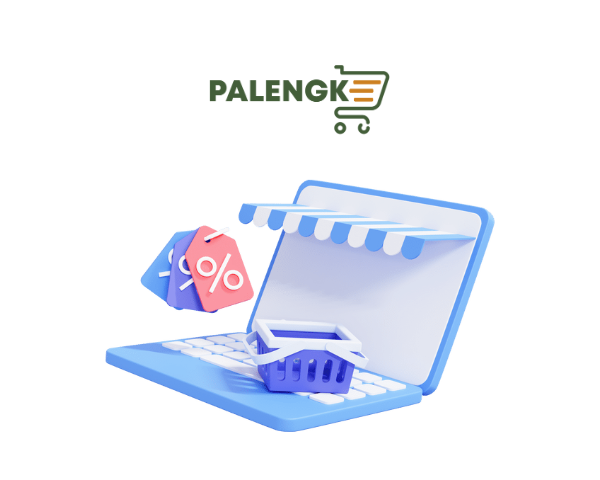
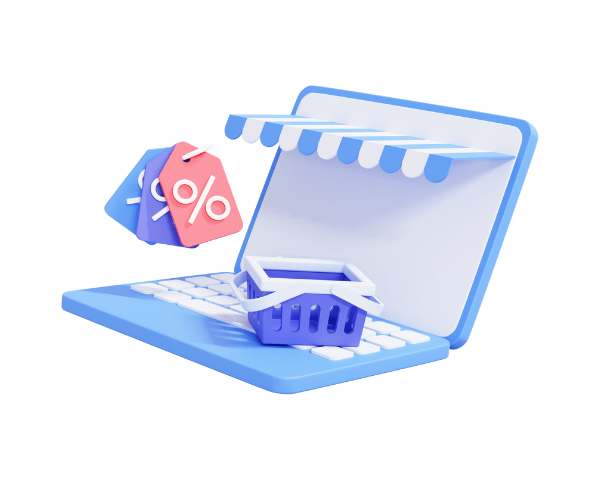
update imgs

diff --git a/src/index.css b/src/index.css
@@ -1994,7 +1994,7 @@
                     align-items: center;
                     width: 100%;
                     padding: 0 10px 0 0;
-                    border-radius: 10px;
+                    border-radius: 20px;
                     border: 1px solid var(--color-fade);
                 }
                 .register-section .register-form-container form .password-container .pass-container input ,.register-section .register-form-container form .password-container .confirm-pass-container input{
@@ -2024,7 +2024,7 @@
             }
         .register-section .register-form-container form input{
             padding: 10px 10px;
-            border-radius: 10px;
+            border-radius: 20px;
             border: 1px solid var(--color-fade);
             outline: none;
             width: 100%;
@@ -3068,22 +3068,24 @@
 .contactUs-section{
     margin-bottom: 10px;
 }
-    @media(max-width:989px){
+    @media(max-width:1063px){
         .contactUs-section .custom-row{
             display:flex;
+            flex-direction: column-reverse;
+            align-items: center;
             background-color: white;
             border-radius: 20px;
             padding: 20px;
             justify-content: space-between;
             gap: 10px;
             filter: drop-shadow(0 5px 5px rgba(0,0,0,0.3));
-        } 
+        }
     }
     .contactUs-section .custom-row{
         display:flex;
+        align-items: center;
         background-color: white;
         border-radius: 20px;
-        padding-left: 20px;
         justify-content: space-between;
         gap: 10px;
         filter: drop-shadow(0 5px 5px rgba(0,0,0,0.3));
@@ -3160,10 +3162,7 @@
 
         .contactUs-section .img-container{
             width: 50%;
+            display: flex;
+            align-items: center;
+            justify-content: center;
         }
-            .contactUs-section .img-container img{
-                width: 100%;
-                height: 100%;
-                border-top-right-radius: 20px;
-                border-bottom-right-radius: 20px;
-            }

diff --git a/src/Pages/ContactUs.jsx b/src/Pages/ContactUs.jsx
@@ -1,5 +1,5 @@
 import axios from 'axios';
-import contactImg from '/src/assets/contactImg.jpeg'
+import contactImg from '/src/assets/contact_us.png'
 import { useState } from 'react';
 import Swal from 'sweetalert2';
 const env = import.meta.env;
@@ -100,7 +100,7 @@ const ContactUs = () => {
                   </div>
                 </form>
             </div>
-            <div className="d-none d-lg-block img-container">
+            <div className="img-container">
               <img src={contactImg} className='img-fluid'/>
             </div>
           </div>
